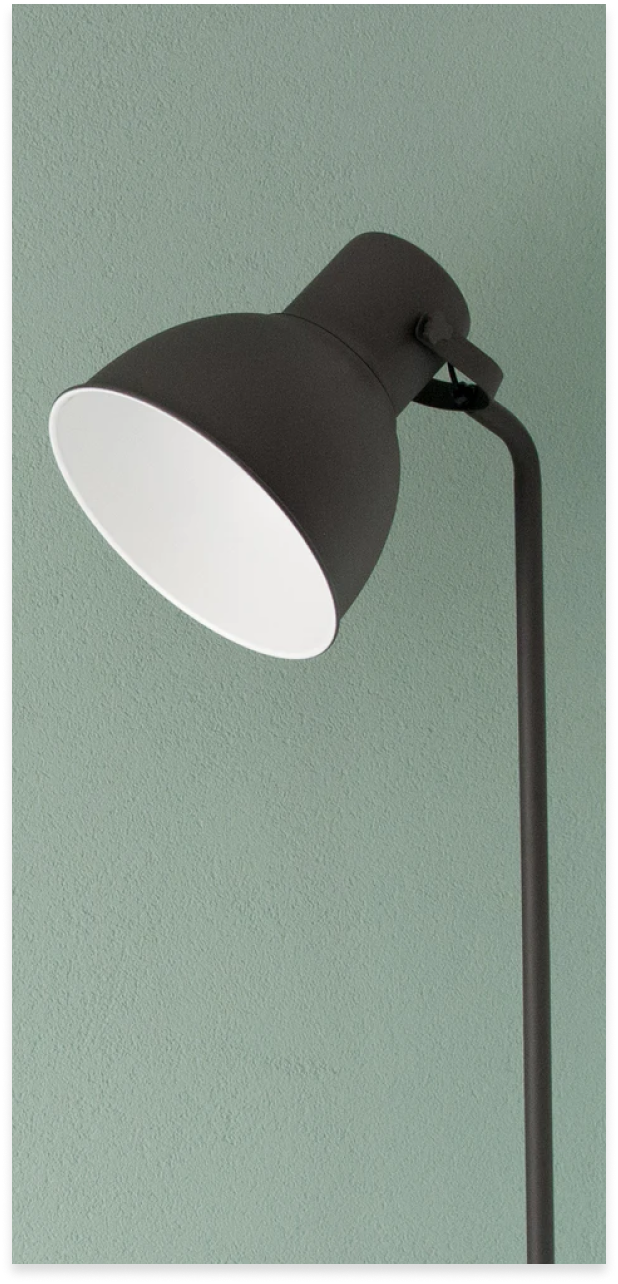
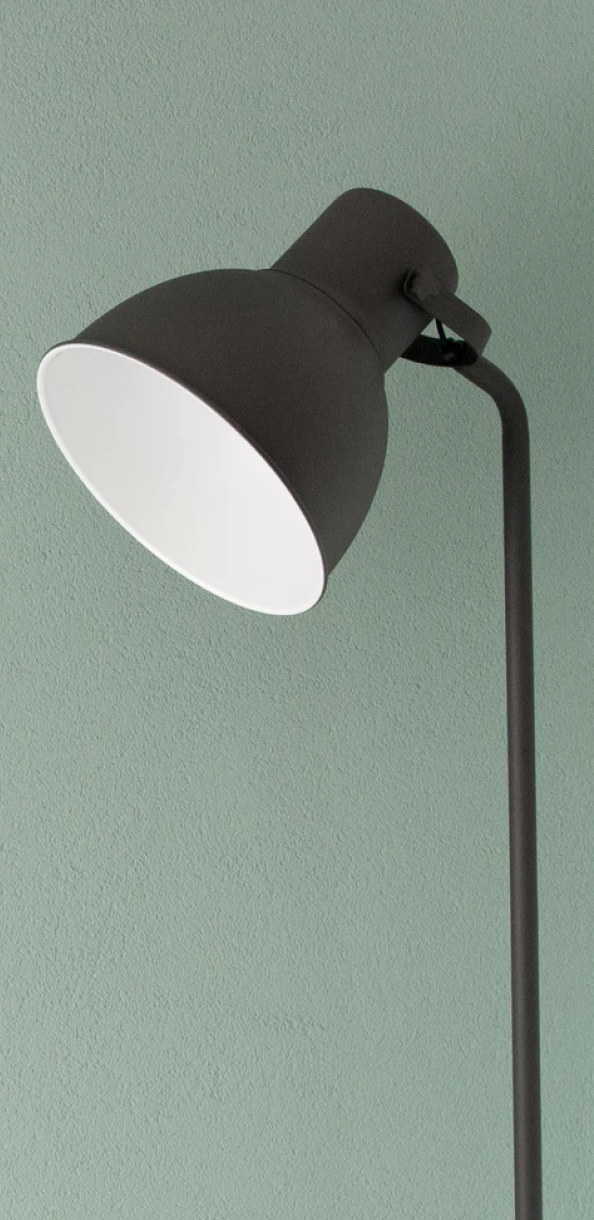
Add gallery section + update images

diff --git a/css/gallery.css b/css/gallery.css
@@ -30,9 +30,10 @@ em {
 }
 strong { font-weight: 800; }
 a { text-decoration: none; }
-a, a:visited, a:focus { color: #4a4a4a; }
-a:active, a:hover { color: #727272; }
+a, a:visited, a:focus { color: var(--med-grey); }
+a:active, a:hover { color: var(--black); }
 img { border-radius: 15px; }
+footer { color: var(--med-grey); }
 footer a:hover { text-decoration: underline; }
 .uppercase { text-transform: uppercase; }
 .center-text { text-align: center; }
@@ -41,6 +42,7 @@ footer a:hover { text-decoration: underline; }
     margin-bottom: 20px; 
 }
 section { margin-bottom: 10px; }
+div { margin-bottom: 12px; }
 
 
 /* Gallery Design */
@@ -65,12 +67,18 @@ section { margin-bottom: 10px; }
     position: relative;
     top: -6px;
 }
+.gallery { text-align: center; }
+.gallery img {
+    width: 100%;
+}
+img.xl { width: 100.4%; }
 
 
 /* Queries */
 @media only screen and (min-width: 0px) and (max-width: 600px) {
     .clear { margin-bottom: 2%; }
-    body { padding: 50px 0; }
+    body { padding: 50px 10px; }
+    section { margin-bottom: 0; }
     .info { width: 100px; }
     .info span:first-child { font-size: 20px; }
     .info span:last-child { font-size: 12px; }

diff --git a/index.php b/index.php
@@ -58,11 +58,53 @@
             <div class="col-sm-12 col-md-3"> &nbsp; </div>
         </div>
     </section>
+        
+    <section class="container gallery">
+        <div class="row">
+            <div class="col"> &nbsp; </div>
+            <div class="col-sm-12 col-lg-10">
+                <div class="row">
+                    <div class="col-sm-12 col-md-4">
+                        <img src="img/couch-1.png" alt="Grey couch with a potted plant on a white table">
+                    </div>
+                    <div class="col-sm-12 col-md-8">
+                        <img src="img/couch-2.png" alt="Black couch">
+                    </div>
+                </div>
+                <div class="row">
+                    <div class="row">
+                        <div class="col-sm-8">
+                            <div class="row">
+                                <div class="col-sm-12">
+                                    <img src="img/tub.png" alt="White porcelain bathtub">
+                                </div>
+                            </div>
+                            <div class="row">
+                                <div class="col-sm-6">
+                                    <img src="img/bonzai.png" alt="Bonzai tree">
+                                </div>
+                                <div class="col-sm-6">
+                                    <img src="img/plant.png" alt="Plant">
+                                </div>
+                            </div>
+                        </div>
+                        <div class="col-sm-4">
+                            <img src="img/lamp.png" alt="Black lamp" class="xl">
+                        </div>
+                    </div>
+                </div>
+            </div>
+            <div class="col"> &nbsp; </div>
+        </div>
+    </section>
     
     <div class="clear"> &nbsp; </div>
+    <div class="clear"> &nbsp; </div>
     
-    <section class="container">
-    
-    </section>
+    <footer class="row">
+        <div class="col-sm-12 center-text">
+            Created by <a href="https://github.com/ETstudios" target="_blank">FaeWilds</a> - <a href="https://devchallenges.io/" target="_blank">devChallenges.io</a>
+        </div>
+    </footer>
 </body>
 </html>
